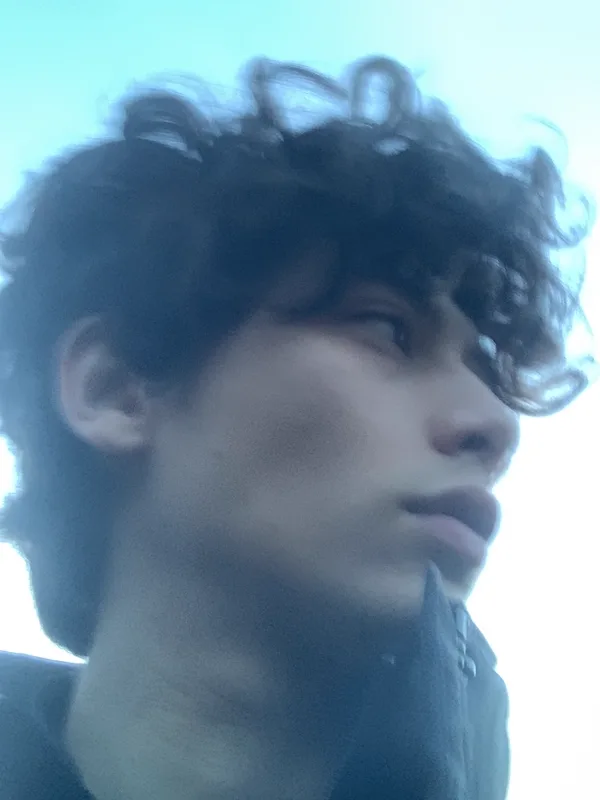
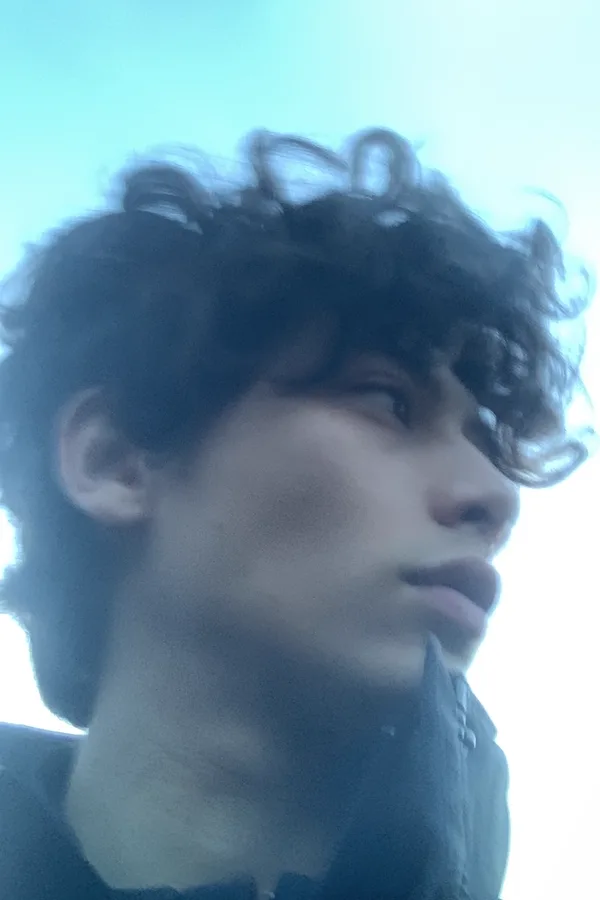
Forms ask for needs; review cards uniform; portrait framing (owner, 19 Nov)
- Enquiry forms (home, contact, SEN): 'What would you like help with?' is required; the
  'don't include diagnoses' note is replaced with an encouragement to share age, subject
  and any SEN needs or diagnoses. Privacy notice updated to match. All languages.
- Phone reviews: every card the same height, bordered, quote clamped, source at the foot
- Josh's photo less zoomed (taller crop, avatar zoom 1); Aaron's face centred in the phone pop-up

diff --git a/vi/index.html b/vi/index.html
@@ -180,7 +180,7 @@
               <article class="framework-profile" data-profile-slide>
                 <div class="framework-profile-content">
                   <span class="framework-portrait-frame framework-portrait-frame--joshua">
-                    <img class="framework-portrait framework-portrait--joshua" src="/assets/team/joshua-curls-600.webp?v=20261119-photo-1" alt="Joshua Gordon Jones" width="1200" height="1600" loading="lazy" decoding="async" />
+                    <img class="framework-portrait framework-portrait--joshua" src="/assets/team/joshua-curls-600.webp?v=20261119-photo-2" alt="Joshua Gordon Jones" width="1200" height="1600" loading="lazy" decoding="async" />
                   </span>
                   <h3>Joshua Gordon Jones</h3>
                   <p class="framework-profile-role">Người sáng lập · Tốt nghiệp ngành tâm lý học, có chuyên môn và chứng chỉ về giáo dục &amp; nhu cầu giáo dục đặc biệt</p>
@@ -552,7 +552,7 @@
           <h2 id="ah-team-title">Một đội ngũ đồng hành cùng mỗi học viên.</h2>
         </div>
         <ul class="ah-avatars" role="list" data-ah-team>
-          <li class="ah-av ah-av--joshua"><button type="button" aria-haspopup="dialog"><span class="ah-ring"><span><img src="/assets/team/joshua-curls-600.webp?v=20261119-photo-1" alt="" width="1200" height="1600" loading="lazy" decoding="async" /></span></span><b data-i18n-skip>Joshua</b></button><p hidden data-ah-name data-i18n-skip>Joshua Gordon Jones</p><p hidden data-ah-role>Người sáng lập · Tốt nghiệp ngành tâm lý học, có chuyên môn và chứng chỉ về giáo dục &amp; nhu cầu giáo dục đặc biệt</p><p hidden data-ah-line>“Chúng tôi ở đây để mỗi học sinh đều có một đội ngũ đồng hành.”</p></li>
+          <li class="ah-av ah-av--joshua"><button type="button" aria-haspopup="dialog"><span class="ah-ring"><span><img src="/assets/team/joshua-curls-600.webp?v=20261119-photo-2" alt="" width="1200" height="1600" loading="lazy" decoding="async" /></span></span><b data-i18n-skip>Joshua</b></button><p hidden data-ah-name data-i18n-skip>Joshua Gordon Jones</p><p hidden data-ah-role>Người sáng lập · Tốt nghiệp ngành tâm lý học, có chuyên môn và chứng chỉ về giáo dục &amp; nhu cầu giáo dục đặc biệt</p><p hidden data-ah-line>“Chúng tôi ở đây để mỗi học sinh đều có một đội ngũ đồng hành.”</p></li>
           <li class="ah-av ah-av--aaron"><button type="button" aria-haspopup="dialog"><span class="ah-ring"><span><img src="/assets/team/aaron-video-call-600.webp?v=20261031-light-1" alt="" width="1179" height="2556" loading="lazy" decoding="async" /></span></span><b data-i18n-skip>Aaron</b></button><p hidden data-ah-name data-i18n-skip>Aaron Gelsthorpe</p><p hidden data-ah-role>Giáo viên tiếng Anh, Toán, Khoa học &amp; Mỹ thuật · Phụ trách Mỹ thuật &amp; thiết kế</p><p hidden data-ah-line>“Đam mê hỗ trợ học sinh với các kỹ năng tiếng Anh, Toán và Mỹ thuật!”</p></li>
           <li class="ah-av ah-av--connor"><button type="button" aria-haspopup="dialog"><span class="ah-ring"><span><img src="/assets/team/connor-snake-600.webp?v=20261031-light-1" alt="" width="739" height="1600" loading="lazy" decoding="async" /></span></span><b data-i18n-skip>Connor</b></button><p hidden data-ah-name data-i18n-skip>Connor Wright</p><p hidden data-ah-role>Giáo viên tiểu học · Trợ giảng và chuyên hỗ trợ 1 kèm 1</p><p hidden data-ah-line>“Mình thật sự thích tạo ảnh hưởng tích cực và giúp học sinh của mình tiến bộ.”</p></li>
           <li class="ah-av ah-av--sara"><button type="button" aria-haspopup="dialog"><span class="ah-ring"><span><img src="/assets/team/sara-portrait-600.webp?v=20261031-mobile-1" alt="" width="600" height="800" loading="lazy" decoding="async" /></span></span><b data-i18n-skip>Sara</b></button><p hidden data-ah-name data-i18n-skip>Sara Sharra</p><p hidden data-ah-role>Giáo viên tiếng Ý · Ngành Thiết kế nội thất, UWE</p><p hidden data-ah-line lang="it">“Non vedo l’ora di conoscerti!”</p></li>
@@ -630,9 +630,9 @@
               <span class="field-error" id="reply-contact-error"></span>
             </div>
             <div class="ah-field">
-              <label for="support-needed">Bạn muốn được hỗ trợ điều gì? <small>(không bắt buộc)</small></label>
-              <input id="support-needed" name="Support requested" type="text" maxlength="200" aria-describedby="support-needed-privacy support-needed-error" />
-              <small id="support-needed-privacy">Vui lòng không ghi chẩn đoán hay hồ sơ y tế; chúng ta sẽ cùng trao đổi về nhu cầu sau.</small> <span class="field-error" id="support-needed-error"></span>
+              <label for="support-needed">Bạn muốn được hỗ trợ về điều gì?</label>
+              <input id="support-needed" name="Support requested" type="text" maxlength="200" required aria-describedby="support-needed-privacy support-needed-error" />
+              <small id="support-needed-privacy">Bạn chia sẻ càng nhiều (tuổi, môn học, nhu cầu đặc biệt hoặc chẩn đoán nếu có), chúng mình càng chọn được gia sư phù hợp.</small> <span class="field-error" id="support-needed-error"></span>
             </div>
             <button class="ah-cta" id="submit-button" type="submit">Đăng ký buổi học miễn phí của tôi</button>
             <p class="ah-guarantee">Nếu buổi học trả phí đầu tiên chưa phù hợp, bạn không phải trả tiền, hoặc chúng tôi đổi giáo viên cho bạn mà không tính phí.</p>

diff --git a/fr/index.html b/fr/index.html
@@ -180,7 +180,7 @@
               <article class="framework-profile" data-profile-slide>
                 <div class="framework-profile-content">
                   <span class="framework-portrait-frame framework-portrait-frame--joshua">
-                    <img class="framework-portrait framework-portrait--joshua" src="/assets/team/joshua-curls-600.webp?v=20261119-photo-1" alt="Joshua Gordon Jones" width="1200" height="1600" loading="lazy" decoding="async" />
+                    <img class="framework-portrait framework-portrait--joshua" src="/assets/team/joshua-curls-600.webp?v=20261119-photo-2" alt="Joshua Gordon Jones" width="1200" height="1600" loading="lazy" decoding="async" />
                   </span>
                   <h3>Joshua Gordon Jones</h3>
                   <p class="framework-profile-role">Fondateur · Diplômé en psychologie, spécialiste qualifié des besoins éducatifs particuliers et de l’éducation</p>
@@ -552,7 +552,7 @@
           <h2 id="ah-team-title">Une équipe derrière chaque élève.</h2>
         </div>
         <ul class="ah-avatars" role="list" data-ah-team>
-          <li class="ah-av ah-av--joshua"><button type="button" aria-haspopup="dialog"><span class="ah-ring"><span><img src="/assets/team/joshua-curls-600.webp?v=20261119-photo-1" alt="" width="1200" height="1600" loading="lazy" decoding="async" /></span></span><b data-i18n-skip>Joshua</b></button><p hidden data-ah-name data-i18n-skip>Joshua Gordon Jones</p><p hidden data-ah-role>Fondateur · Diplômé en psychologie, spécialiste qualifié des besoins éducatifs particuliers et de l’éducation</p><p hidden data-ah-line>« Nous sommes là pour que chaque élève ait une équipe derrière lui. »</p></li>
+          <li class="ah-av ah-av--joshua"><button type="button" aria-haspopup="dialog"><span class="ah-ring"><span><img src="/assets/team/joshua-curls-600.webp?v=20261119-photo-2" alt="" width="1200" height="1600" loading="lazy" decoding="async" /></span></span><b data-i18n-skip>Joshua</b></button><p hidden data-ah-name data-i18n-skip>Joshua Gordon Jones</p><p hidden data-ah-role>Fondateur · Diplômé en psychologie, spécialiste qualifié des besoins éducatifs particuliers et de l’éducation</p><p hidden data-ah-line>« Nous sommes là pour que chaque élève ait une équipe derrière lui. »</p></li>
           <li class="ah-av ah-av--aaron"><button type="button" aria-haspopup="dialog"><span class="ah-ring"><span><img src="/assets/team/aaron-video-call-600.webp?v=20261031-light-1" alt="" width="1179" height="2556" loading="lazy" decoding="async" /></span></span><b data-i18n-skip>Aaron</b></button><p hidden data-ah-name data-i18n-skip>Aaron Gelsthorpe</p><p hidden data-ah-role>Professeur d’anglais, de maths, de sciences et d’art · Responsable art et design</p><p hidden data-ah-line>« Passionné par l’accompagnement des élèves en anglais, en maths et en arts plastiques ! »</p></li>
           <li class="ah-av ah-av--connor"><button type="button" aria-haspopup="dialog"><span class="ah-ring"><span><img src="/assets/team/connor-snake-600.webp?v=20261031-light-1" alt="" width="739" height="1600" loading="lazy" decoding="async" /></span></span><b data-i18n-skip>Connor</b></button><p hidden data-ah-name data-i18n-skip>Connor Wright</p><p hidden data-ah-role>Professeur du primaire · Assistant pédagogique, spécialiste de l’accompagnement individuel</p><p hidden data-ah-line>« J’aime vraiment avoir un impact positif et accompagner la progression de mes élèves. »</p></li>
           <li class="ah-av ah-av--sara"><button type="button" aria-haspopup="dialog"><span class="ah-ring"><span><img src="/assets/team/sara-portrait-600.webp?v=20261031-mobile-1" alt="" width="600" height="800" loading="lazy" decoding="async" /></span></span><b data-i18n-skip>Sara</b></button><p hidden data-ah-name data-i18n-skip>Sara Sharra</p><p hidden data-ah-role>Professeure d’italien · Design d’intérieur à l’UWE</p><p hidden data-ah-line lang="it">“Non vedo l’ora di conoscerti!”</p></li>
@@ -630,9 +630,9 @@
               <span class="field-error" id="reply-contact-error"></span>
             </div>
             <div class="ah-field">
-              <label for="support-needed">Pour quoi souhaitez-vous de l’aide ? <small>(facultatif)</small></label>
-              <input id="support-needed" name="Support requested" type="text" maxlength="200" aria-describedby="support-needed-privacy support-needed-error" />
-              <small id="support-needed-privacy">N’indiquez ni diagnostic ni dossier médical ; nous parlerons des besoins ensemble.</small> <span class="field-error" id="support-needed-error"></span>
+              <label for="support-needed">Pour quoi souhaitez-vous de l’aide ?</label>
+              <input id="support-needed" name="Support requested" type="text" maxlength="200" required aria-describedby="support-needed-privacy support-needed-error" />
+              <small id="support-needed-privacy">Plus vous nous en dites (âge, matière, besoins particuliers ou diagnostics), mieux nous pourrons choisir le bon tuteur.</small> <span class="field-error" id="support-needed-error"></span>
             </div>
             <button class="ah-cta" id="submit-button" type="submit">Réserver ma séance gratuite</button>
             <p class="ah-guarantee">Si votre premier cours payant ne vous convient pas, vous ne le payez pas, ou nous changeons de tuteur sans frais.</p>

diff --git a/es/index.html b/es/index.html
@@ -180,7 +180,7 @@
               <article class="framework-profile" data-profile-slide>
                 <div class="framework-profile-content">
                   <span class="framework-portrait-frame framework-portrait-frame--joshua">
-                    <img class="framework-portrait framework-portrait--joshua" src="/assets/team/joshua-curls-600.webp?v=20261119-photo-1" alt="Joshua Gordon Jones" width="1200" height="1600" loading="lazy" decoding="async" />
+                    <img class="framework-portrait framework-portrait--joshua" src="/assets/team/joshua-curls-600.webp?v=20261119-photo-2" alt="Joshua Gordon Jones" width="1200" height="1600" loading="lazy" decoding="async" />
                   </span>
                   <h3>Joshua Gordon Jones</h3>
                   <p class="framework-profile-role">Fundador · Graduado en Psicología, especialista cualificado en NEE y educación</p>
@@ -552,7 +552,7 @@
           <h2 id="ah-team-title">Un equipo detrás de cada estudiante.</h2>
         </div>
         <ul class="ah-avatars" role="list" data-ah-team>
-          <li class="ah-av ah-av--joshua"><button type="button" aria-haspopup="dialog"><span class="ah-ring"><span><img src="/assets/team/joshua-curls-600.webp?v=20261119-photo-1" alt="" width="1200" height="1600" loading="lazy" decoding="async" /></span></span><b data-i18n-skip>Joshua</b></button><p hidden data-ah-name data-i18n-skip>Joshua Gordon Jones</p><p hidden data-ah-role>Fundador · Graduado en Psicología, especialista cualificado en NEE y educación</p><p hidden data-ah-line>“Estamos aquí para que cada estudiante tenga un equipo detrás.”</p></li>
+          <li class="ah-av ah-av--joshua"><button type="button" aria-haspopup="dialog"><span class="ah-ring"><span><img src="/assets/team/joshua-curls-600.webp?v=20261119-photo-2" alt="" width="1200" height="1600" loading="lazy" decoding="async" /></span></span><b data-i18n-skip>Joshua</b></button><p hidden data-ah-name data-i18n-skip>Joshua Gordon Jones</p><p hidden data-ah-role>Fundador · Graduado en Psicología, especialista cualificado en NEE y educación</p><p hidden data-ah-line>“Estamos aquí para que cada estudiante tenga un equipo detrás.”</p></li>
           <li class="ah-av ah-av--aaron"><button type="button" aria-haspopup="dialog"><span class="ah-ring"><span><img src="/assets/team/aaron-video-call-600.webp?v=20261031-light-1" alt="" width="1179" height="2556" loading="lazy" decoding="async" /></span></span><b data-i18n-skip>Aaron</b></button><p hidden data-ah-name data-i18n-skip>Aaron Gelsthorpe</p><p hidden data-ah-role>Tutor de inglés, matemáticas, ciencias y arte · Responsable de arte y diseño</p><p hidden data-ah-line>“¡Me apasiona ayudar a mis estudiantes con el inglés, las matemáticas y el arte!”</p></li>
           <li class="ah-av ah-av--connor"><button type="button" aria-haspopup="dialog"><span class="ah-ring"><span><img src="/assets/team/connor-snake-600.webp?v=20261031-light-1" alt="" width="739" height="1600" loading="lazy" decoding="async" /></span></span><b data-i18n-skip>Connor</b></button><p hidden data-ah-name data-i18n-skip>Connor Wright</p><p hidden data-ah-role>Tutor de primaria · Auxiliar de aula y especialista en apoyo individual</p><p hidden data-ah-line>“Disfruto mucho teniendo un impacto positivo y ayudando a crecer a mis estudiantes.”</p></li>
           <li class="ah-av ah-av--sara"><button type="button" aria-haspopup="dialog"><span class="ah-ring"><span><img src="/assets/team/sara-portrait-600.webp?v=20261031-mobile-1" alt="" width="600" height="800" loading="lazy" decoding="async" /></span></span><b data-i18n-skip>Sara</b></button><p hidden data-ah-name data-i18n-skip>Sara Sharra</p><p hidden data-ah-role>Tutora de italiano · Diseño de Interiores en UWE</p><p hidden data-ah-line lang="it">“Non vedo l’ora di conoscerti!”</p></li>
@@ -630,9 +630,9 @@
               <span class="field-error" id="reply-contact-error"></span>
             </div>
             <div class="ah-field">
-              <label for="support-needed">¿Con qué te gustaría recibir ayuda? <small>(opcional)</small></label>
-              <input id="support-needed" name="Support requested" type="text" maxlength="200" aria-describedby="support-needed-privacy support-needed-error" />
-              <small id="support-needed-privacy">No incluyas diagnósticos ni historiales médicos; hablaremos de las necesidades juntos.</small> <span class="field-error" id="support-needed-error"></span>
+              <label for="support-needed">¿En qué te gustaría recibir ayuda?</label>
+              <input id="support-needed" name="Support requested" type="text" maxlength="200" required aria-describedby="support-needed-privacy support-needed-error" />
+              <small id="support-needed-privacy">Cuanto más nos cuentes (edad, asignatura, necesidades especiales o diagnósticos), mejor podremos elegir al tutor adecuado.</small> <span class="field-error" id="support-needed-error"></span>
             </div>
             <button class="ah-cta" id="submit-button" type="submit">Reservar mi sesión gratuita</button>
             <p class="ah-guarantee">Si tu primera sesión de pago no te convence, no la pagas, o cambiamos de tutor sin coste.</p>

diff --git a/it/index.html b/it/index.html
@@ -180,7 +180,7 @@
               <article class="framework-profile" data-profile-slide>
                 <div class="framework-profile-content">
                   <span class="framework-portrait-frame framework-portrait-frame--joshua">
-                    <img class="framework-portrait framework-portrait--joshua" src="/assets/team/joshua-curls-600.webp?v=20261119-photo-1" alt="Joshua Gordon Jones" width="1200" height="1600" loading="lazy" decoding="async" />
+                    <img class="framework-portrait framework-portrait--joshua" src="/assets/team/joshua-curls-600.webp?v=20261119-photo-2" alt="Joshua Gordon Jones" width="1200" height="1600" loading="lazy" decoding="async" />
                   </span>
                   <h3>Joshua Gordon Jones</h3>
                   <p class="framework-profile-role">Fondatore · Laureato in psicologia, specialista qualificato in BES e istruzione</p>
@@ -552,7 +552,7 @@
           <h2 id="ah-team-title">Un team dietro ogni studente.</h2>
         </div>
         <ul class="ah-avatars" role="list" data-ah-team>
-          <li class="ah-av ah-av--joshua"><button type="button" aria-haspopup="dialog"><span class="ah-ring"><span><img src="/assets/team/joshua-curls-600.webp?v=20261119-photo-1" alt="" width="1200" height="1600" loading="lazy" decoding="async" /></span></span><b data-i18n-skip>Joshua</b></button><p hidden data-ah-name data-i18n-skip>Joshua Gordon Jones</p><p hidden data-ah-role>Fondatore · Laureato in psicologia, specialista qualificato in BES e istruzione</p><p hidden data-ah-line>“Siamo qui perché ogni studente abbia un team alle spalle.”</p></li>
+          <li class="ah-av ah-av--joshua"><button type="button" aria-haspopup="dialog"><span class="ah-ring"><span><img src="/assets/team/joshua-curls-600.webp?v=20261119-photo-2" alt="" width="1200" height="1600" loading="lazy" decoding="async" /></span></span><b data-i18n-skip>Joshua</b></button><p hidden data-ah-name data-i18n-skip>Joshua Gordon Jones</p><p hidden data-ah-role>Fondatore · Laureato in psicologia, specialista qualificato in BES e istruzione</p><p hidden data-ah-line>“Siamo qui perché ogni studente abbia un team alle spalle.”</p></li>
           <li class="ah-av ah-av--aaron"><button type="button" aria-haspopup="dialog"><span class="ah-ring"><span><img src="/assets/team/aaron-video-call-600.webp?v=20261031-light-1" alt="" width="1179" height="2556" loading="lazy" decoding="async" /></span></span><b data-i18n-skip>Aaron</b></button><p hidden data-ah-name data-i18n-skip>Aaron Gelsthorpe</p><p hidden data-ah-role>Insegnante di inglese, matematica, scienze e arte · Responsabile di arte e design</p><p hidden data-ah-line>“Appassionato di aiutare gli studenti in inglese, matematica e arte!”</p></li>
           <li class="ah-av ah-av--connor"><button type="button" aria-haspopup="dialog"><span class="ah-ring"><span><img src="/assets/team/connor-snake-600.webp?v=20261031-light-1" alt="" width="739" height="1600" loading="lazy" decoding="async" /></span></span><b data-i18n-skip>Connor</b></button><p hidden data-ah-name data-i18n-skip>Connor Wright</p><p hidden data-ah-role>Insegnante per la primaria · Assistente didattico e specialista 1-1</p><p hidden data-ah-line>“Mi piace davvero avere un impatto positivo e favorire la crescita dei miei studenti.”</p></li>
           <li class="ah-av ah-av--sara"><button type="button" aria-haspopup="dialog"><span class="ah-ring"><span><img src="/assets/team/sara-portrait-600.webp?v=20261031-mobile-1" alt="" width="600" height="800" loading="lazy" decoding="async" /></span></span><b data-i18n-skip>Sara</b></button><p hidden data-ah-name data-i18n-skip>Sara Sharra</p><p hidden data-ah-role>Insegnante di italiano · Interior Design alla UWE</p><p hidden data-ah-line lang="it">“Non vedo l’ora di conoscerti!”</p></li>
@@ -630,9 +630,9 @@
               <span class="field-error" id="reply-contact-error"></span>
             </div>
             <div class="ah-field">
-              <label for="support-needed">Per cosa vorresti aiuto? <small>(facoltativo)</small></label>
-              <input id="support-needed" name="Support requested" type="text" maxlength="200" aria-describedby="support-needed-privacy support-needed-error" />
-              <small id="support-needed-privacy">Non includere diagnosi o documenti medici; parleremo insieme delle esigenze.</small> <span class="field-error" id="support-needed-error"></span>
+              <label for="support-needed">In cosa vorresti aiuto?</label>
+              <input id="support-needed" name="Support requested" type="text" maxlength="200" required aria-describedby="support-needed-privacy support-needed-error" />
+              <small id="support-needed-privacy">Più ci racconti (età, materia, eventuali bisogni speciali o diagnosi), meglio possiamo scegliere il tutor giusto.</small> <span class="field-error" id="support-needed-error"></span>
             </div>
             <button class="ah-cta" id="submit-button" type="submit">Prenota la mia lezione gratuita</button>
             <p class="ah-guarantee">Se la prima lezione a pagamento non fa per te, non la paghi, oppure cambiamo tutor senza costi.</p>

diff --git a/index.html b/index.html
@@ -186,7 +186,7 @@
               <article class="framework-profile" data-profile-slide>
                 <div class="framework-profile-content">
                   <span class="framework-portrait-frame framework-portrait-frame--joshua">
-                    <img class="framework-portrait framework-portrait--joshua" src="assets/team/joshua-curls-600.webp?v=20261119-photo-1" alt="Joshua Gordon Jones" width="1200" height="1600" loading="lazy" decoding="async" />
+                    <img class="framework-portrait framework-portrait--joshua" src="assets/team/joshua-curls-600.webp?v=20261119-photo-2" alt="Joshua Gordon Jones" width="1200" height="1600" loading="lazy" decoding="async" />
                   </span>
                   <h3>Joshua Gordon Jones</h3>
                   <p class="framework-profile-role">Founder · Psychology graduate, qualified SEN &amp; education specialist</p>
@@ -559,7 +559,7 @@
           <h2 id="ah-team-title">A team behind every learner.</h2>
         </div>
         <ul class="ah-avatars" role="list" data-ah-team>
-          <li class="ah-av ah-av--joshua"><button type="button" aria-haspopup="dialog"><span class="ah-ring"><span><img src="assets/team/joshua-curls-600.webp?v=20261119-photo-1" alt="" width="1200" height="1600" loading="lazy" decoding="async" /></span></span><b data-i18n-skip>Joshua</b></button><p hidden data-ah-name data-i18n-skip>Joshua Gordon Jones</p><p hidden data-ah-role>Founder · Psychology graduate, qualified SEN &amp; education specialist</p><p hidden data-ah-line>“We’re here so every student can have a team behind them.”</p></li>
+          <li class="ah-av ah-av--joshua"><button type="button" aria-haspopup="dialog"><span class="ah-ring"><span><img src="assets/team/joshua-curls-600.webp?v=20261119-photo-2" alt="" width="1200" height="1600" loading="lazy" decoding="async" /></span></span><b data-i18n-skip>Joshua</b></button><p hidden data-ah-name data-i18n-skip>Joshua Gordon Jones</p><p hidden data-ah-role>Founder · Psychology graduate, qualified SEN &amp; education specialist</p><p hidden data-ah-line>“We’re here so every student can have a team behind them.”</p></li>
           <li class="ah-av ah-av--aaron"><button type="button" aria-haspopup="dialog"><span class="ah-ring"><span><img src="assets/team/aaron-video-call-600.webp?v=20261031-light-1" alt="" width="1179" height="2556" loading="lazy" decoding="async" /></span></span><b data-i18n-skip>Aaron</b></button><p hidden data-ah-name data-i18n-skip>Aaron Gelsthorpe</p><p hidden data-ah-role>English, Maths, Science &amp; Art tutor · Art &amp; design lead</p><p hidden data-ah-line>“Passionate about supporting students with their English, Maths and Art skills!”</p></li>
           <li class="ah-av ah-av--connor"><button type="button" aria-haspopup="dialog"><span class="ah-ring"><span><img src="assets/team/connor-snake-600.webp?v=20261031-light-1" alt="" width="739" height="1600" loading="lazy" decoding="async" /></span></span><b data-i18n-skip>Connor</b></button><p hidden data-ah-name data-i18n-skip>Connor Wright</p><p hidden data-ah-role>Primary tutor · TA and 1-1 specialist</p><p hidden data-ah-line>“I really enjoy making positive impacts and facilitating growth for my students.”</p></li>
           <li class="ah-av ah-av--sara"><button type="button" aria-haspopup="dialog"><span class="ah-ring"><span><img src="assets/team/sara-portrait-600.webp?v=20261031-mobile-1" alt="" width="600" height="800" loading="lazy" decoding="async" /></span></span><b data-i18n-skip>Sara</b></button><p hidden data-ah-name data-i18n-skip>Sara Sharra</p><p hidden data-ah-role>Italian tutor · Interior Design at UWE</p><p hidden data-ah-line lang="it">“Non vedo l’ora di conoscerti!”</p></li>
@@ -637,9 +637,9 @@
               <span class="field-error" id="reply-contact-error"></span>
             </div>
             <div class="ah-field">
-              <label for="support-needed">What would you like help with? <small>(optional)</small></label>
-              <input id="support-needed" name="Support requested" type="text" maxlength="200" aria-describedby="support-needed-privacy support-needed-error" />
-              <small id="support-needed-privacy">Please don't include diagnoses or medical records; we'll talk through needs together.</small>
+              <label for="support-needed">What would you like help with?</label>
+              <input id="support-needed" name="Support requested" type="text" maxlength="200" required aria-describedby="support-needed-privacy support-needed-error" />
+              <small id="support-needed-privacy">The more you tell us (age, subject, any SEN needs or diagnoses), the better we can match the right tutor.</small>
               <span class="field-error" id="support-needed-error"></span>
             </div>
             <button class="ah-cta" id="submit-button" type="submit">Book my free session</button>

diff --git a/app-home.css b/app-home.css
@@ -201,8 +201,8 @@ html body.homepage #main .app-home :is(p, li) { font-size: var(--ah-fs, inherit)
 .app-home .ah-ring img { width: 100%; height: 100%; max-width: none; object-fit: cover; object-position: var(--ah-pos, 50% 30%); transform: scale(var(--ah-zoom, 1)); transform-origin: var(--ah-pos, 50% 30%); }
 .ah-avatars b { font: 700 14px/1.15 var(--ah-sans); text-align: center; }
 /* Face framing per photo, from the approved mock. */
-.ah-av--joshua, .ah-ts-photo.ah-av--joshua { --ah-pos: 50% 45%; --ah-zoom: 1.25; }
-.ah-av--aaron, .ah-ts-photo.ah-av--aaron { --ah-pos: 50% 42%; --ah-zoom: 1.15; }
+.ah-av--joshua, .ah-ts-photo.ah-av--joshua { --ah-pos: 50% 40%; --ah-zoom: 1; }
+.ah-av--aaron, .ah-ts-photo.ah-av--aaron { --ah-pos: 50% 60%; --ah-zoom: 1.5; }
 .ah-av--connor, .ah-ts-photo.ah-av--connor { --ah-pos: 40% 34%; --ah-zoom: 1.7; }
 .ah-av--sara, .ah-ts-photo.ah-av--sara { --ah-pos: 50% 38%; --ah-zoom: 1.15; }
 .ah-av--joan, .ah-ts-photo.ah-av--joan { --ah-pos: 52% 35%; --ah-zoom: 2.2; }
@@ -335,3 +335,10 @@ html body.homepage footer.site-footer .footer-slogan { display: none; }
 /* Owner, 18 Nov: each project card leads to the real tool. */
 .app-home .ah-try { justify-self: start; margin: 4px 8px 0; display: inline-flex; align-items: center; gap: 6px; min-height: 44px; padding: 0 16px; border-radius: 999px; background: var(--ah-orange); color: var(--ah-on-orange); font: 700 16px/1 var(--ah-sans); text-decoration: none; }
 .app-home .ah-try:focus-visible { outline: 3px solid var(--ah-teal); outline-offset: 3px; }
+
+/* Owner, 19 Nov: review cards all the same size and properly framed. */
+.ah-reviews { align-items: stretch; }
+.ah-reviews .ah-review { display: flex; flex-direction: column; gap: 10px; height: 340px; padding: 20px; border: 1px solid var(--ah-line); box-sizing: border-box; }
+.ah-reviews .ah-review-line { display: flex; flex-direction: column; flex: 1; min-height: 0; margin: 0; }
+.ah-reviews .ah-review-line q { display: -webkit-box; -webkit-box-orient: vertical; -webkit-line-clamp: 9; overflow: hidden; margin: 0; }
+.ah-reviews .ah-review-line a { margin-top: auto; padding-top: 10px; border-top: 1px solid var(--ah-line); font-weight: 700; text-decoration: none; }

diff --git a/privacy.html b/privacy.html
@@ -124,7 +124,7 @@
         <p>The enquiry forms collect your name, email address or phone number, who the learner is, their age or school year, subject, message, preferred lesson format, town or postcode area, reply method and optional desired lesson rate, depending on the form and your choices. The Vietnamese form also asks for a preferred teacher and an optional phone or Zalo number; it sets the format to online, location to Vietnam and reply method to email.</p>
         <p>Hidden fields include campaign source, traffic source and medium, campaign name and the time the form loaded. A hidden website field helps detect spam.</p>
         <p>When you email us, we receive your email address, any name you give, your message and the usual email delivery details.</p>
-        <p>A parent or carer should make the first enquiry for a child. Please do not send diagnoses or medical records through the form.</p>
+        <p>A parent or carer should make the first enquiry for a child. If you tell us about a learner's needs or diagnoses, we use that only to plan their support and match the right tutor, and keep it confidential.</p>
         <p>If tutoring goes ahead, we also use necessary contact and billing details, lesson arrangements, learning goals, progress notes and communications. Information usually comes from you; during tutoring it may also come from the learner, their parent or carer, their tutor, or someone you ask us to speak with.</p>
         <p>You are not legally required to enquire or provide information. Without a reply address and enough detail about the goal, we may be unable to respond or assess a suitable match. Agreed tutoring needs enough contact, scheduling and billing information to run the service.</p>
       </section>

diff --git a/vi/contact.html b/vi/contact.html
@@ -178,9 +178,9 @@
               </div>
             </div>
             <div class="field">
-              <label for="support-needed">Bạn muốn được hỗ trợ điều gì? <small>(không bắt buộc)</small></label>
-              <input id="support-needed" name="Support requested" type="text" maxlength="200" aria-describedby="support-needed-privacy support-needed-error" />
-              <small id="support-needed-privacy">Vui lòng không ghi chẩn đoán hay hồ sơ y tế; chúng ta sẽ cùng trao đổi về nhu cầu sau.</small> <span class="field-error" id="support-needed-error"></span>
+              <label for="support-needed">Bạn muốn được hỗ trợ về điều gì?</label>
+              <input id="support-needed" name="Support requested" type="text" maxlength="200" required aria-describedby="support-needed-privacy support-needed-error" />
+              <small id="support-needed-privacy">Bạn chia sẻ càng nhiều (tuổi, môn học, nhu cầu đặc biệt hoặc chẩn đoán nếu có), chúng mình càng chọn được gia sư phù hợp.</small> <span class="field-error" id="support-needed-error"></span>
             </div>
           <div class="opening-actions"><button class="button form-submit form-submit--trial" id="submit-button" type="submit">Gửi yêu cầu <span aria-hidden="true">→</span></button></div>
           <p class="opening-guarantee">Nếu buổi học trả phí đầu tiên chưa phù hợp, bạn không phải trả tiền, hoặc chúng tôi đổi giáo viên cho bạn mà không tính phí.</p>

diff --git a/vi/team.html b/vi/team.html
@@ -141,7 +141,7 @@
             <div class="team-deck-stage">
           <div class="team-profiles" id="tutors">
           <article class="team-biography" data-team-card id="joshua" aria-labelledby="joshua-heading">
-            <span class="framework-portrait-frame framework-portrait-frame--joshua"><img class="framework-portrait" src="/assets/team/joshua-curls-600.webp?v=20261119-photo-1" alt="Joshua Gordon Jones" width="1200" height="1600" loading="lazy" decoding="async" /></span>
+            <span class="framework-portrait-frame framework-portrait-frame--joshua"><img class="framework-portrait" src="/assets/team/joshua-curls-600.webp?v=20261119-photo-2" alt="Joshua Gordon Jones" width="1200" height="1600" loading="lazy" decoding="async" /></span>
             <h2 id="joshua-heading">Joshua Gordon Jones</h2>
             <p class="team-biography-role">Người sáng lập · Tốt nghiệp ngành tâm lý học, có chuyên môn và chứng chỉ về giáo dục &amp; nhu cầu giáo dục đặc biệt</p>
             <p>“Xin chào, tôi là Josh. Tôi thành lập Toucan Learn sau khi thấy quá nhiều học sinh bị bỏ quên hoặc chỉ được giao phiếu bài tập rồi tự làm. Chúng tôi ở đây để mỗi học viên đều có một đội ngũ hỗ trợ. Tôi dạy tiếng Anh, Tâm lý học và hỗ trợ nhu cầu giáo dục đặc biệt, đồng thời giám sát mọi buổi học tại Toucan Learn.”</p>

diff --git a/fr/contact.html b/fr/contact.html
@@ -178,9 +178,9 @@
               </div>
             </div>
             <div class="field">
-              <label for="support-needed">Pour quoi souhaitez-vous de l’aide ? <small>(facultatif)</small></label>
-              <input id="support-needed" name="Support requested" type="text" maxlength="200" aria-describedby="support-needed-privacy support-needed-error" />
-              <small id="support-needed-privacy">N’indiquez ni diagnostic ni dossier médical ; nous parlerons des besoins ensemble.</small> <span class="field-error" id="support-needed-error"></span>
+              <label for="support-needed">Pour quoi souhaitez-vous de l’aide ?</label>
+              <input id="support-needed" name="Support requested" type="text" maxlength="200" required aria-describedby="support-needed-privacy support-needed-error" />
+              <small id="support-needed-privacy">Plus vous nous en dites (âge, matière, besoins particuliers ou diagnostics), mieux nous pourrons choisir le bon tuteur.</small> <span class="field-error" id="support-needed-error"></span>
             </div>
           <div class="opening-actions"><button class="button form-submit form-submit--trial" id="submit-button" type="submit">Envoyer ma demande <span aria-hidden="true">→</span></button></div>
           <p class="opening-guarantee">Si votre premier cours payant ne vous convient pas, vous ne le payez pas, ou nous changeons de tuteur sans frais.</p>

diff --git a/es/contact.html b/es/contact.html
@@ -178,9 +178,9 @@
               </div>
             </div>
             <div class="field">
-              <label for="support-needed">¿Con qué te gustaría recibir ayuda? <small>(opcional)</small></label>
-              <input id="support-needed" name="Support requested" type="text" maxlength="200" aria-describedby="support-needed-privacy support-needed-error" />
-              <small id="support-needed-privacy">No incluyas diagnósticos ni historiales médicos; hablaremos de las necesidades juntos.</small> <span class="field-error" id="support-needed-error"></span>
+              <label for="support-needed">¿En qué te gustaría recibir ayuda?</label>
+              <input id="support-needed" name="Support requested" type="text" maxlength="200" required aria-describedby="support-needed-privacy support-needed-error" />
+              <small id="support-needed-privacy">Cuanto más nos cuentes (edad, asignatura, necesidades especiales o diagnósticos), mejor podremos elegir al tutor adecuado.</small> <span class="field-error" id="support-needed-error"></span>
             </div>
           <div class="opening-actions"><button class="button form-submit form-submit--trial" id="submit-button" type="submit">Enviar mi consulta <span aria-hidden="true">→</span></button></div>
           <p class="opening-guarantee">Si tu primera sesión de pago no te convence, no la pagas, o cambiamos de tutor sin coste.</p>

diff --git a/fr/team.html b/fr/team.html
@@ -141,7 +141,7 @@
             <div class="team-deck-stage">
           <div class="team-profiles" id="tutors">
           <article class="team-biography" data-team-card id="joshua" aria-labelledby="joshua-heading">
-            <span class="framework-portrait-frame framework-portrait-frame--joshua"><img class="framework-portrait" src="/assets/team/joshua-curls-600.webp?v=20261119-photo-1" alt="Joshua Gordon Jones" width="1200" height="1600" loading="lazy" decoding="async" /></span>
+            <span class="framework-portrait-frame framework-portrait-frame--joshua"><img class="framework-portrait" src="/assets/team/joshua-curls-600.webp?v=20261119-photo-2" alt="Joshua Gordon Jones" width="1200" height="1600" loading="lazy" decoding="async" /></span>
             <h2 id="joshua-heading">Joshua Gordon Jones</h2>
             <p class="team-biography-role">Fondateur · Diplômé en psychologie, spécialiste qualifié des besoins éducatifs particuliers et de l’éducation</p>
             <p>“Bonjour, je m’appelle Josh. J’ai créé Toucan Learn après avoir vu trop d’élèves oubliés, ou à qui l’on donnait des fiches d’exercices avant de les laisser se débrouiller. Nous sommes là pour que chaque élève ait une équipe derrière lui. J’enseigne l’anglais et la psychologie, j’accompagne les besoins éducatifs particuliers et je supervise chaque cours chez Toucan Learn.”</p>
